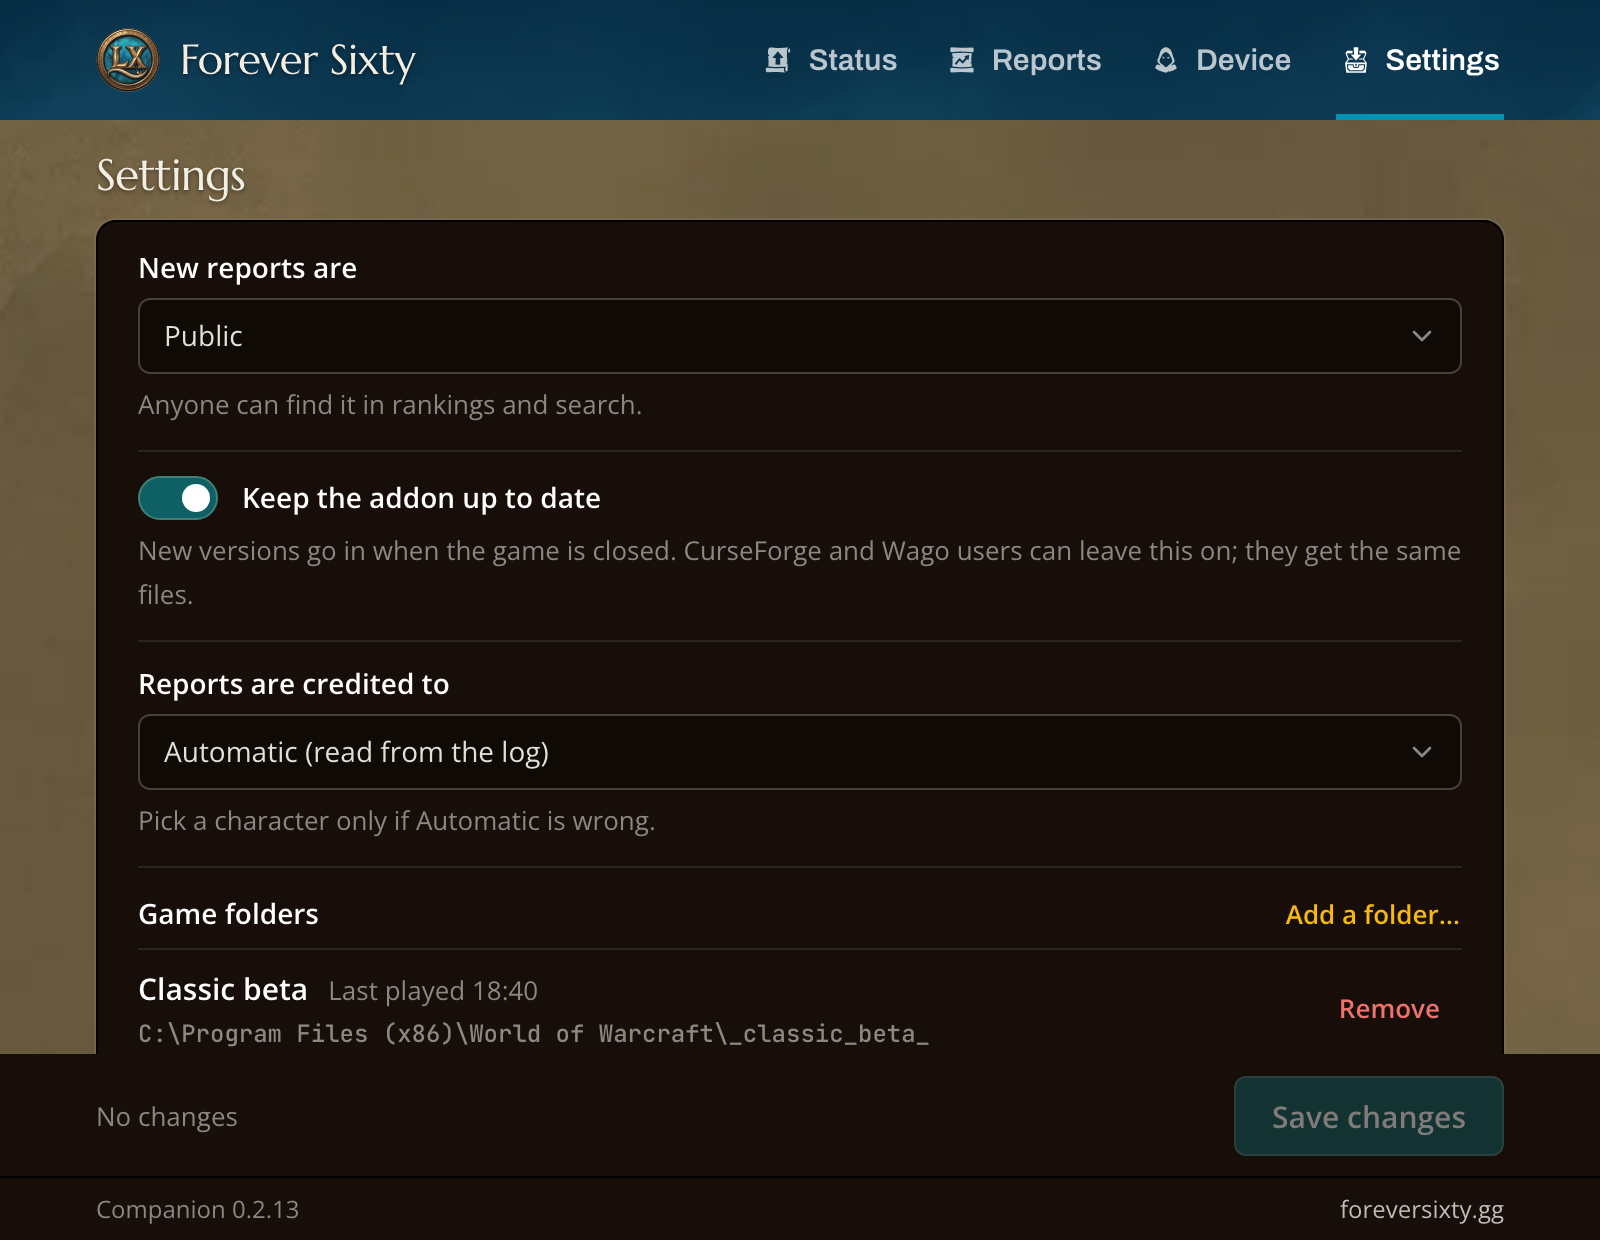
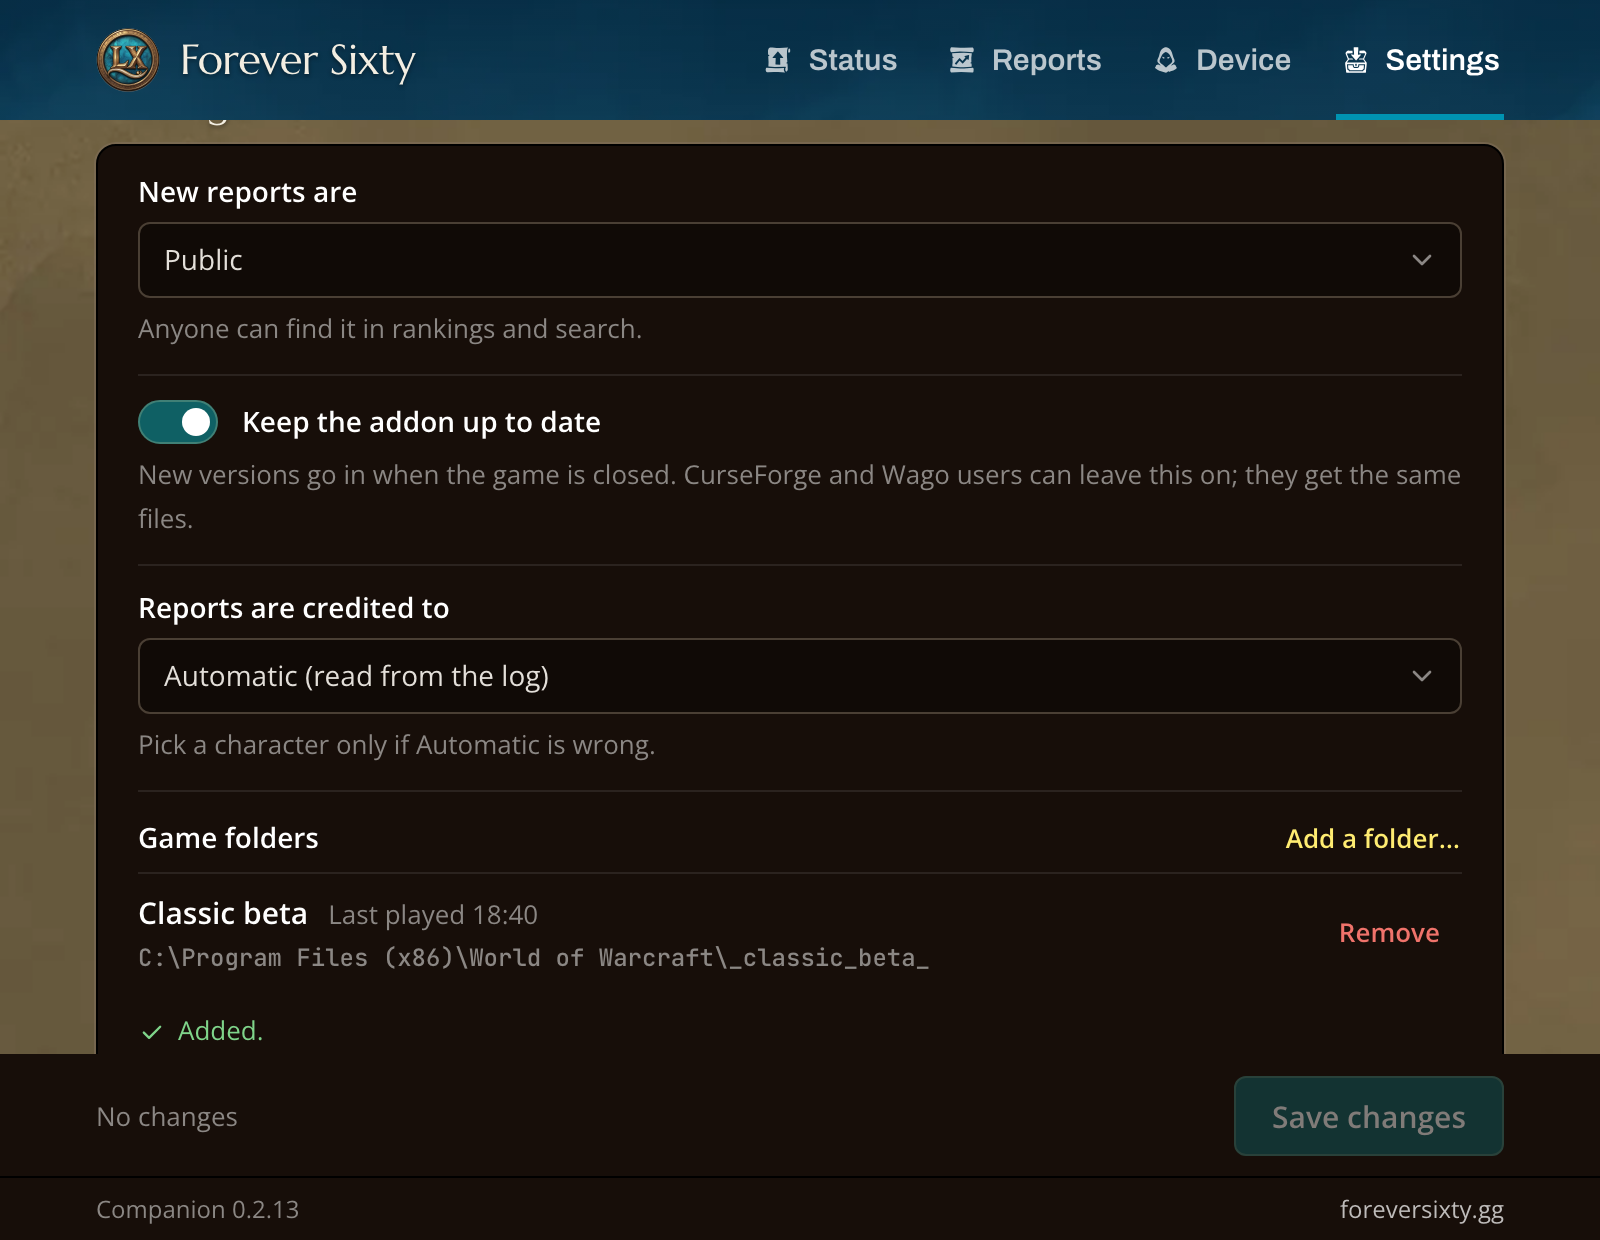
docs(design): companion review round 3, the panel passes
ux-designer SHIP, wow-player SHIP, ai-slop-reviewer PASS,
info-density-reviewer DENSE on design/reviews/2026-11-09-companion/round-3;
folder-added reshot scrolled to its Added. line.

Claude-Session: https://claude.ai/code/session_01Wrtayzxz2jvhjren4pWihn

diff --git a/design/reviews/2026-11-09-companion/verdicts/round-3-final.md b/design/reviews/2026-11-09-companion/verdicts/round-3-final.md
@@ -1,0 +1,66 @@
+# Round 3 (final): the panel's verdicts on round-3/
+
+All four reviewers pass the round-3 captures. Each verdict line is quoted word for word, followed by the polish they left (none of it gates).
+
+## ux-designer
+
+Every round-1 and round-2 item is closed and checked on the captures:
+
+- the 560 px Settings;
+- the update bar's copy and its alignment;
+- the held headline and its tray tone;
+- the figure overhang;
+- one icon rule;
+- the tray corner badge;
+- one fixture across the pages.
+
+Polish left:
+
+- `update-ready` and `uploading-held` still show the older fixture (the report has no zone yet, "0 so far").
+- Dismiss sits about 1 px inside the column.
+- Check the green badge on a light macOS menu bar after the first real build.
+
+VERDICT: SHIP — every round-1 and round-2 blocker and must-fix is closed on the captures, and only fixture and sub-pixel polish remain.
+
+## wow-player
+
+Fixed:
+
+- `uploading-held`: the amber headline is right.
+- `device-connected`: the rows read correctly. "Log parser" is harmless, but could be dropped.
+- `offline-status`: it no longer claims that nothing uploaded.
+- `update-ready`: it says what to do.
+
+Follow-ups:
+
+- Kill or wipe on report rows.
+- Confirm the `_classic_beta_` folder name for the live client.
+- `update-ready` still uses the older fixture.
+
+VERDICT: SHIP — a held upload now turns the headline amber, the stale and device pages no longer contradict Status, and the remaining items (kill or wipe on reports, the unconfirmed `_classic_beta_` folder name) are follow-ups, not defects.
+
+## ai-slop-reviewer
+
+The Settings help lines each carry a fact. Device keeps only its own rows.
+
+Minor:
+
+- "Pick a character only if Automatic is wrong." adds little.
+- `folder-added.png` was clipped. It has been reshot scrolled, showing the folder and "Added.".
+
+VERDICT: PASS — The nested-card, empty-state, icon-per-action and Device duplication tells are fixed, and what remains is one low-value help line and a clipped `folder-added.png` capture, neither of which is a visual tell.
+
+## info-density-reviewer
+
+Resolved:
+
+- The zone, counts and age now show on every row.
+- Device and Reports agree.
+- The held escalation is right. The trim request is withdrawn.
+
+Optional:
+
+- Fold "Characters sent" into the Addon row.
+- If Device's lower third is ever filled, use the last upload time.
+
+VERDICT: DENSE — Status, Reports and Device now show what the snapshot carries, with zone, counts and age on every row, and the two round-2 gaps are closed.
